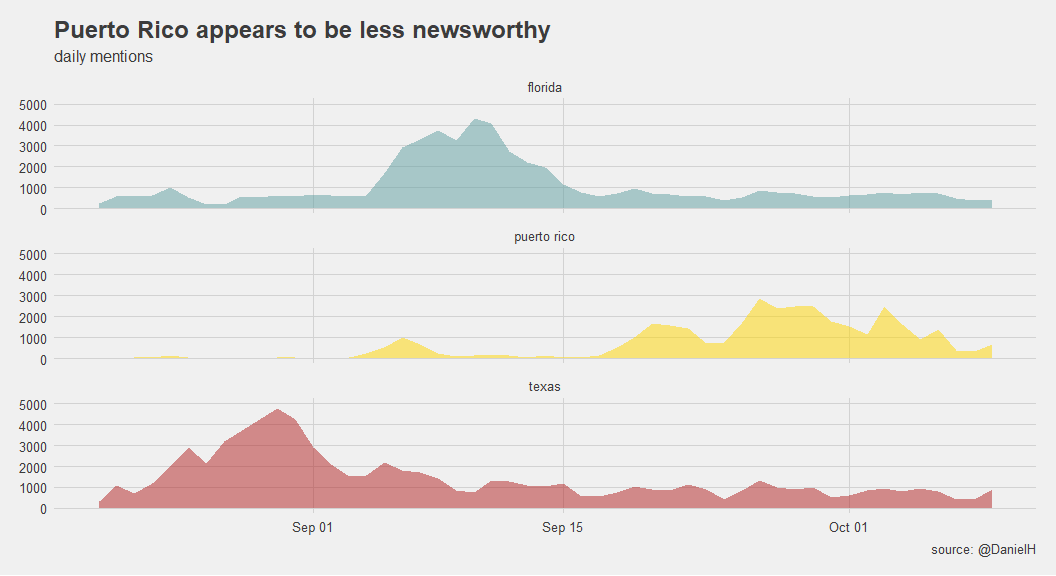
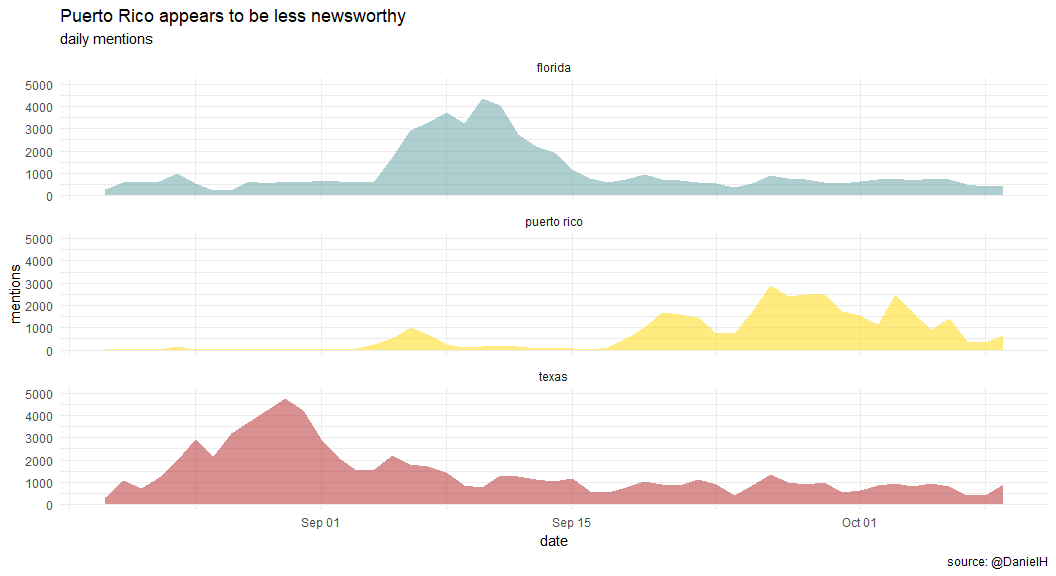
edit files

diff --git a/week_12/tidytuesday_week12.md b/week_12/tidytuesday_week12.md
@@ -291,7 +291,7 @@ states_dat_long_merged %>%
             position = "dodge", color = "white") +
   scale_fill_manual(values = c("cadetblue", "gold", "firebrick")) +
   ylim(c(0, 6000)) +
-  theme_fivethirtyeight() +
+  theme_minimal() +
   labs(title = "Puerto Rico appears to be less newsworthy",
        subtitle = "daily mentions",
        caption = "source: @fivethirtyeight.com")
@@ -307,7 +307,7 @@ states_dat_long_merged %>%
   ggplot(aes(date, mentions, fill = topic)) +
   geom_area(show.legend = F, alpha = .5) +
   scale_fill_manual(values = c("cadetblue", "gold", "firebrick")) +
-  theme_fivethirtyeight() +
+  theme_minimal() +
   ylim(c(0, 5000)) +
   facet_wrap(~topic, nrow = 3) +
   labs(title = "Puerto Rico appears to be less newsworthy",
@@ -325,7 +325,7 @@ tv_media %>%
   gather("hurricane", "proportion of sentences", - date) %>%
   ggplot(aes(date, `proportion of sentences`, fill = hurricane)) +
   geom_area(position = "dodge", alpha = .5, color = "white") +
-  theme_fivethirtyeight() +
+  theme_minimal() +
   scale_fill_manual(values = c("olivedrab", "firebrick", "cyan4", "darkorange")) +
   labs(title = "TV",
        subtitle = "Proportion fo sentences",
@@ -340,7 +340,7 @@ tv_media %>%
   ggplot(aes(date, `proportion of sentences`, fill = hurricane)) +
   geom_area(position = "dodge", alpha = .6,
             show.legend = F, color = "white") +
-  theme_fivethirtyeight() +
+  theme_minimal() +
   scale_fill_manual(values = c("olivedrab", "firebrick", 
                                "cyan4", "darkorange")) +
   facet_wrap(~hurricane, nrow = 4) +
